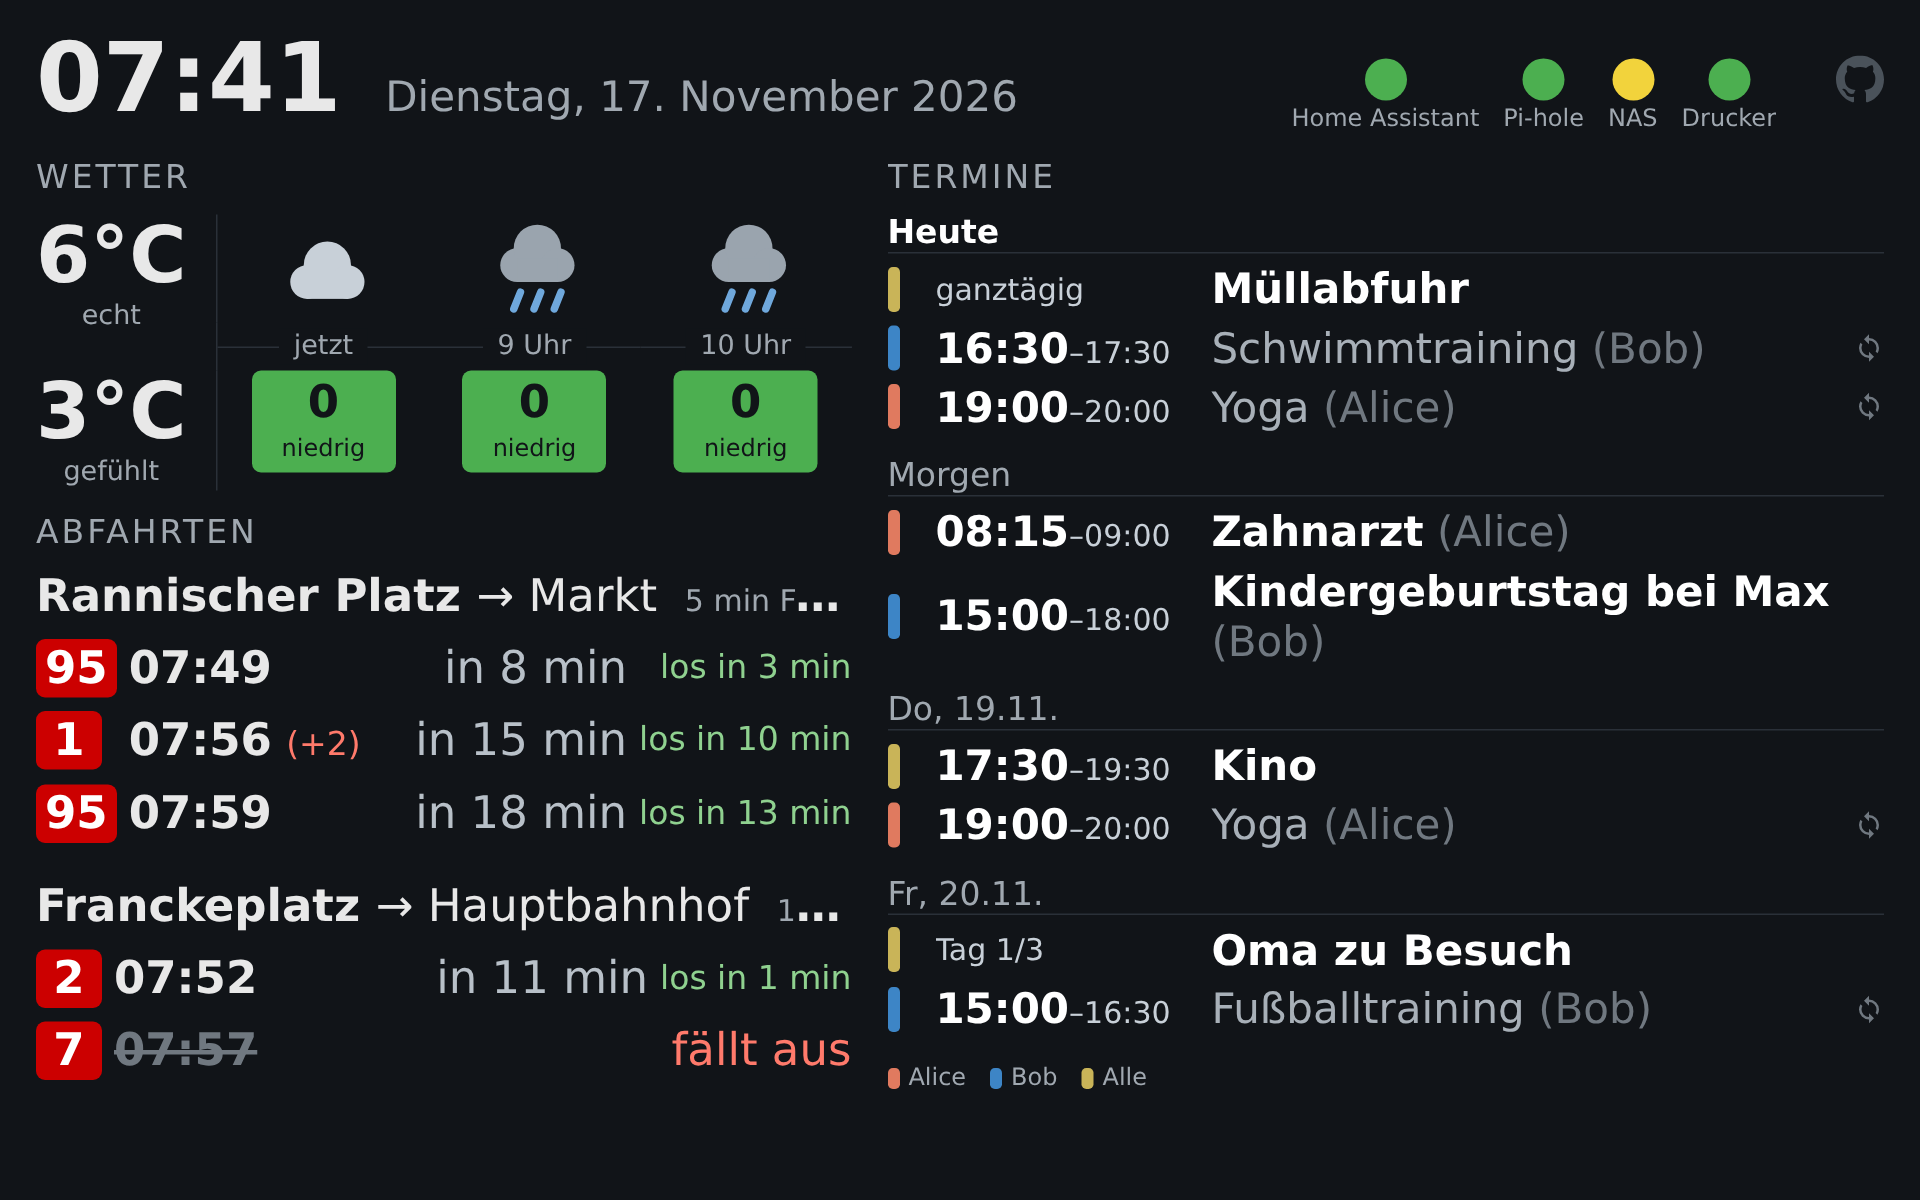
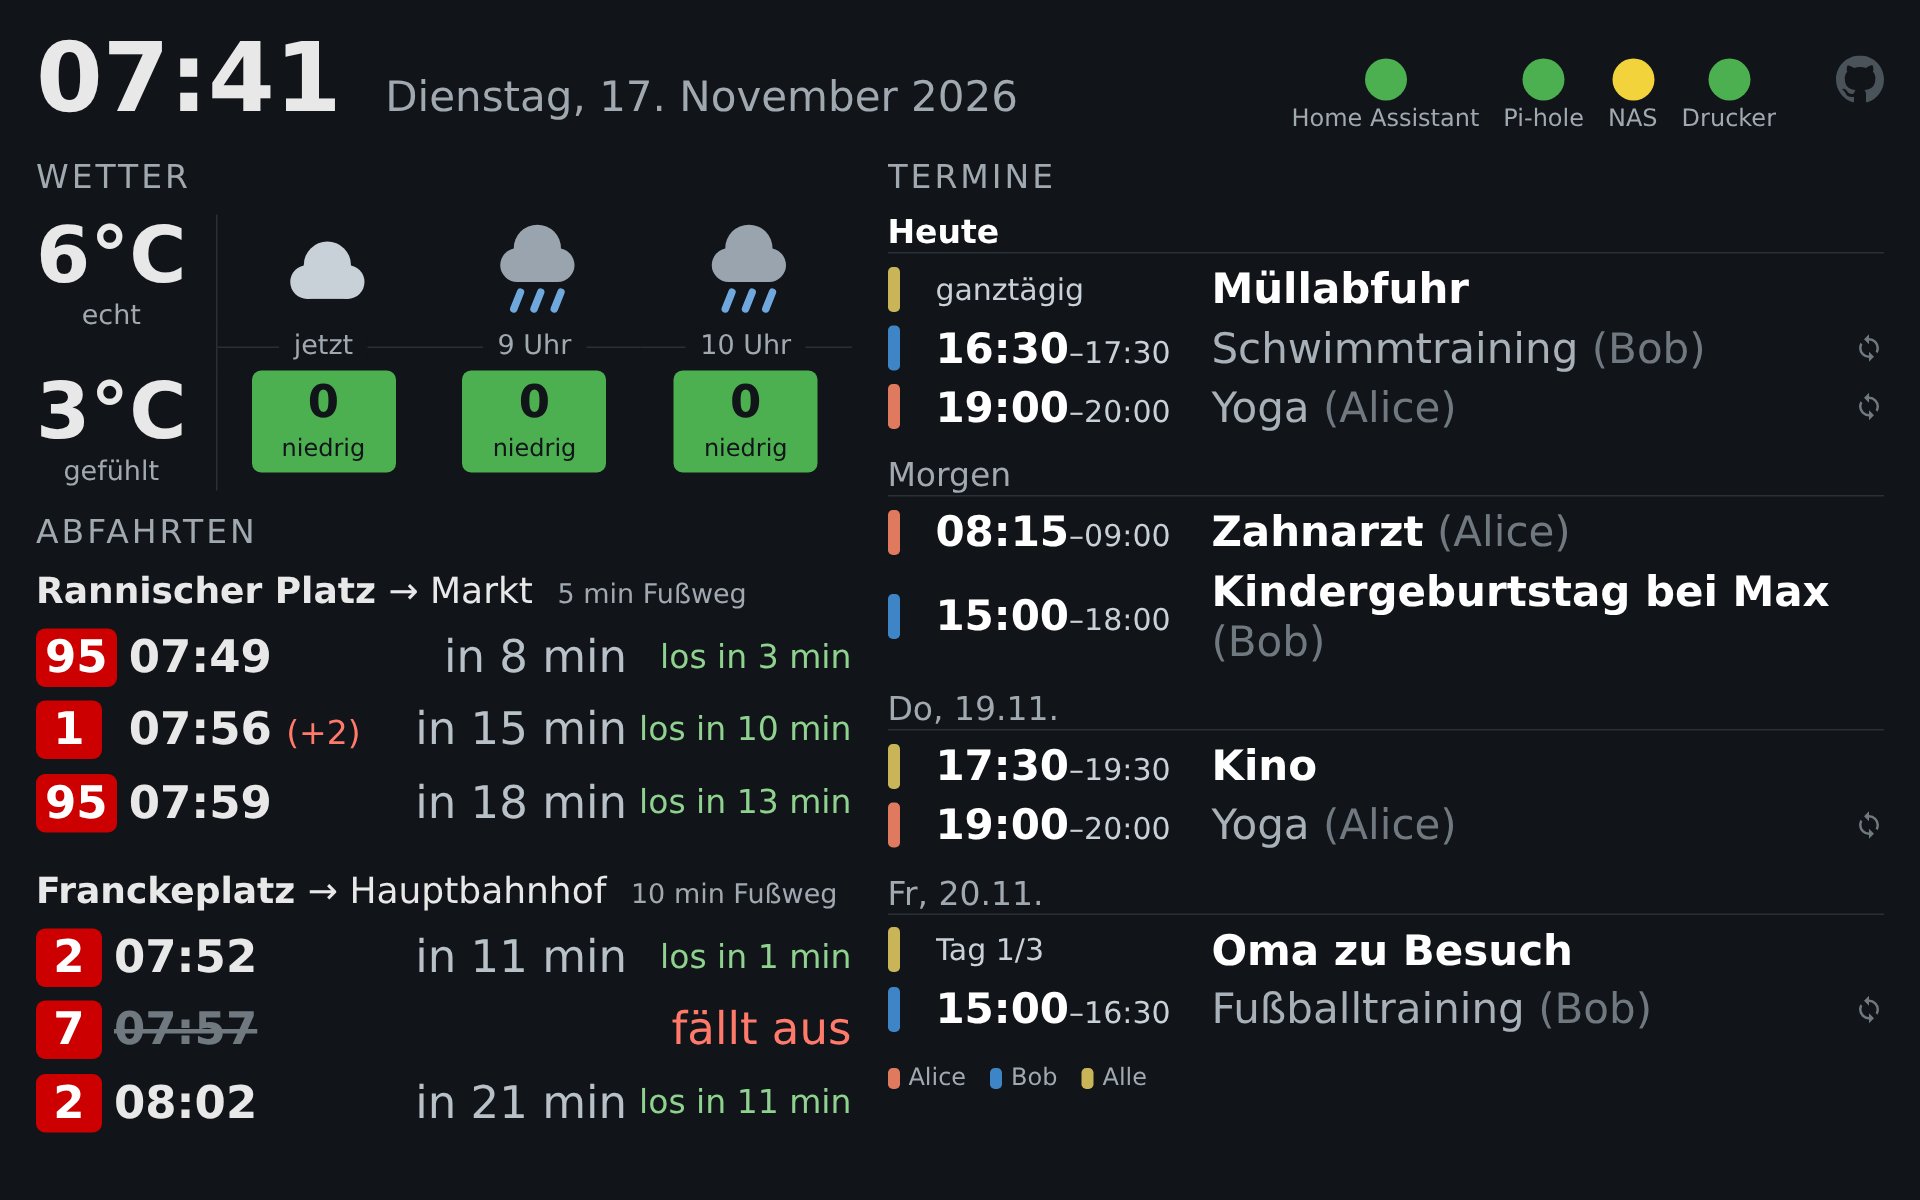
Shrink the stop headings so name, direction and walk time fit on one line
The 45 % column cut off the walk time. A layout test now covers both stops with a
configured direction.

Changed region(s): [[0.0, 0.4625, 0.4375, 0.9558]]

diff --git a/src/home_dashboard/static/style.css b/src/home_dashboard/static/style.css
@@ -309,8 +309,9 @@ body {
   margin-bottom: 1.25rem;
 }
 
+/* Small enough for name, direction and walk time on one line in the 45 % column of a 1024 px display */
 .stop-name {
-  font-size: 1.875rem;
+  font-size: 1.5rem;
   margin: 0 0 0.375rem 0;
   white-space: nowrap;
   overflow: hidden;
@@ -322,7 +323,7 @@ body {
 }
 
 .stop-walk {
-  font-size: 1.25rem;
+  font-size: 1.125rem;
   font-weight: normal;
   color: #a0a8b0;
   margin-left: 0.5rem;

diff --git a/tests/test_layout.py b/tests/test_layout.py
@@ -6,6 +6,8 @@ import itertools
 
 import pytest
 
+from tests.test_departures import FRANCKEPLATZ, RANNISCHER_PLATZ
+
 # Common landscape tablets (CSS pixels) plus portrait
 SMALL = (800, 480)
 LARGE = (1920, 1080)
@@ -36,6 +38,9 @@ LAYOUT = """() => {
     // configured stop directions must not be cut off by the stop name's ellipsis
     cutStopDirections: [...document.querySelectorAll('.stop-direction')].filter(visible)
       .filter((direction) => box(direction).right > box(direction.parentElement).right + 1).length,
+    // the walk time is only a hint and may be cut off on small displays
+    cutWalkTimes: [...document.querySelectorAll('.stop-walk')].filter(visible)
+      .filter((walk) => box(walk).right > box(walk.parentElement).right + 1).length,
     pageScrolls: root.scrollWidth > innerWidth || root.scrollHeight > innerHeight,
   };
 }"""
@@ -81,6 +86,24 @@ def assert_fits(page) -> None:
 @pytest.mark.parametrize("viewport", VIEWPORTS, ids=lambda size: f"{size[0]}x{size[1]}")
 def test_widgets_fit_the_display_without_overlapping_or_scrolling(open_dashboard, viewport):
     assert_fits(open_dashboard(viewport))
+
+
+BOTH_WITH_DIRECTION = [
+    RANNISCHER_PLATZ.model_copy(update={"direction": "Markt"}),
+    FRANCKEPLATZ.model_copy(update={"direction": "Hauptbahnhof"}),
+]
+
+
+@pytest.mark.parametrize("dashboard_stops", [BOTH_WITH_DIRECTION])
+@pytest.mark.parametrize(
+    "viewport", [LARGE, (1280, 800), (1024, 600)], ids=lambda size: f"{size[0]}x{size[1]}"
+)
+def test_stop_name_direction_and_walk_time_fit_on_one_line(open_dashboard, viewport):
+    page = open_dashboard(viewport)
+    layout = page.evaluate(LAYOUT)
+
+    assert layout["cutWalkTimes"] == 0, "walk time must not be cut off"
+    assert_fits(page)
 
 
 @pytest.mark.parametrize("viewport", [LARGE, (1280, 800)], ids=lambda size: f"{size[0]}x{size[1]}")

diff --git a/tests/browser.py b/tests/browser.py
@@ -20,6 +20,7 @@ from home_dashboard.config import (
     HomeConfig,
     ServiceConfig,
     StatusConfig,
+    StopConfig,
 )
 from tests.hafas_fake import HafasFake
 from tests.open_meteo_fake import OpenMeteoFake
@@ -92,6 +93,13 @@ def dashboard_services() -> dict[str, int]:
 
 
 @pytest.fixture
+def dashboard_stops() -> list[StopConfig]:
+    """Departure stops. Override with `@pytest.mark.parametrize("dashboard_stops", [...])`."""
+    # One stop with a configured direction, one showing the destination of each tram
+    return [RANNISCHER_PLATZ.model_copy(update={"direction": "Markt"}), FRANCKEPLATZ]
+
+
+@pytest.fixture
 def status_config(respx_mock: respx.Router, dashboard_services: dict[str, int]) -> StatusConfig:
     health = ServicesFake(respx_mock)
     services = []
@@ -132,13 +140,13 @@ def open_dashboard(
     busy_hafas: HafasFake,
     open_meteo: OpenMeteoFake,
     status_config: StatusConfig,
+    dashboard_stops: list[StopConfig],
     network: Network,
 ) -> Iterator[Callable]:
     config = AppConfig(
         home=HomeConfig(lat=51.48, lon=11.97),
         departures=DeparturesConfig(
-            # One stop with a configured direction, one showing the destination of each tram
-            stops=[RANNISCHER_PLATZ.model_copy(update={"direction": "Markt"}), FRANCKEPLATZ],
+            stops=dashboard_stops,
             max_per_stop=8,
         ),
         calendar=CalendarConfig(ical_url=ICAL_URL, people=[ALICE, BOB], everyone=EVERYONE, days=14),
